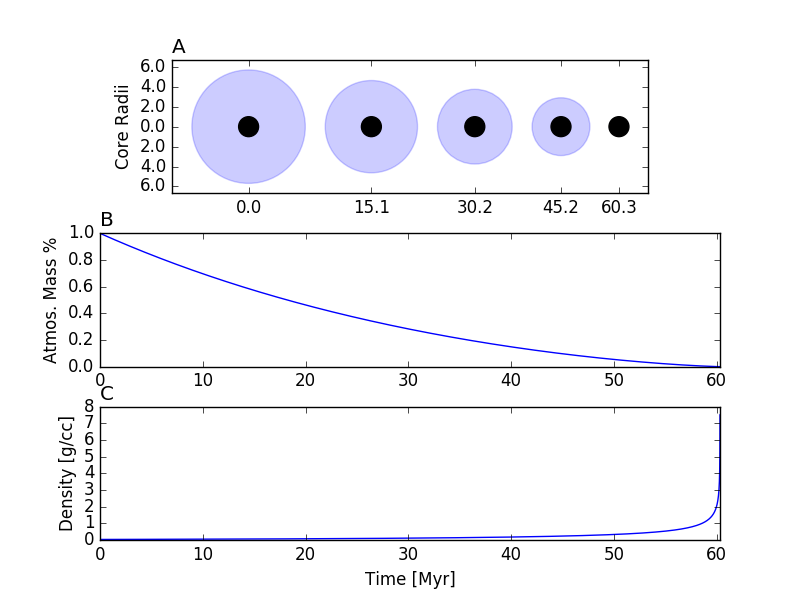
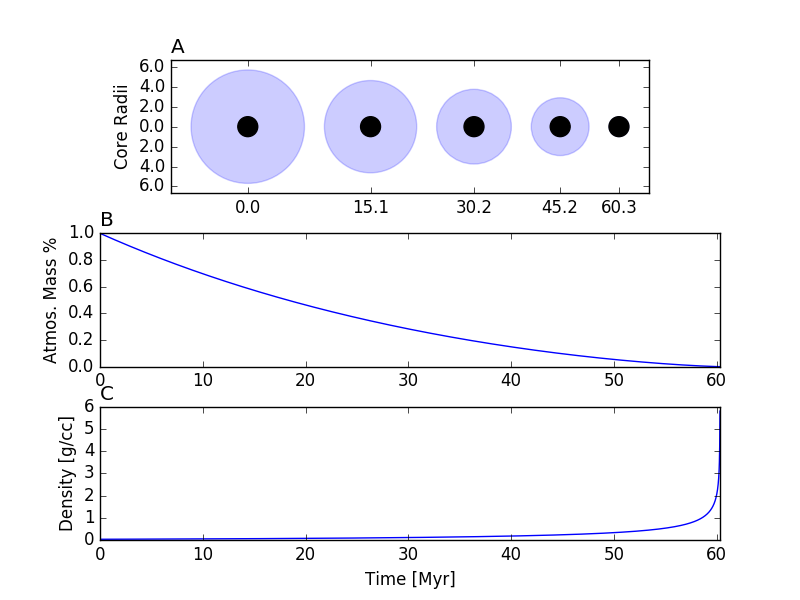
fix small numerical issue with end case

diff --git a/SimpleModel.py b/SimpleModel.py
@@ -284,6 +284,7 @@ def plot_density_over_time(time,atmos_mass,core_mass,radius):
         rho = (core_mass + atmos_mass[i])/(4.0/3.0*pi*radius[i]**3.0)
         density[i] = rho
 
+
     time_myr = time/SECONDS_PER_YEAR/1.0E6 #time in Myr
     plt.subplot(313)
     plt.plot(time_myr, density*0.001) #convert density to g/cc
@@ -318,14 +319,6 @@ def plot_planet_over_time(mass, rad, dist, T, core_mass, core_rho, R_gas,\
 
     p_r = 1.0E5 #the TOA pressure, assume we see at the 1 bar level
 
-    r, r_s = calculate_rad(p_r, core_mass, core_rho, mass, R_gas, T)
-    dMdt = calculate_loss_rate(mass, r_s, r, dist, star_mass)
-
-    print("r=%0.2f, r_s=%0.2f, dMdt=%2.3e"%(r/rad,r_s/rad,dMdt))
-    
-    lifetime = (mass - core_mass)/dMdt/SECONDS_PER_YEAR #lifetime in years
-    print("Atmosphere lifetime: %2.3e"%(lifetime))
-
     num_steps = int(round(dur/ts)) #the number of iterations to perform
 
     time = np.zeros(num_steps)
@@ -353,9 +346,10 @@ def plot_planet_over_time(mass, rad, dist, T, core_mass, core_rho, R_gas,\
             total_loss = dMdt*ts
 
             cur_mass = cur_mass - total_loss
-            if cur_mass < core_mass:
+            if cur_mass < core_mass or r < r_s:
                 #we've lost the whole atmosphere!
                 cur_mass = core_mass
+                r = r_s
                 end_i = i
 
         radius[i] = r
